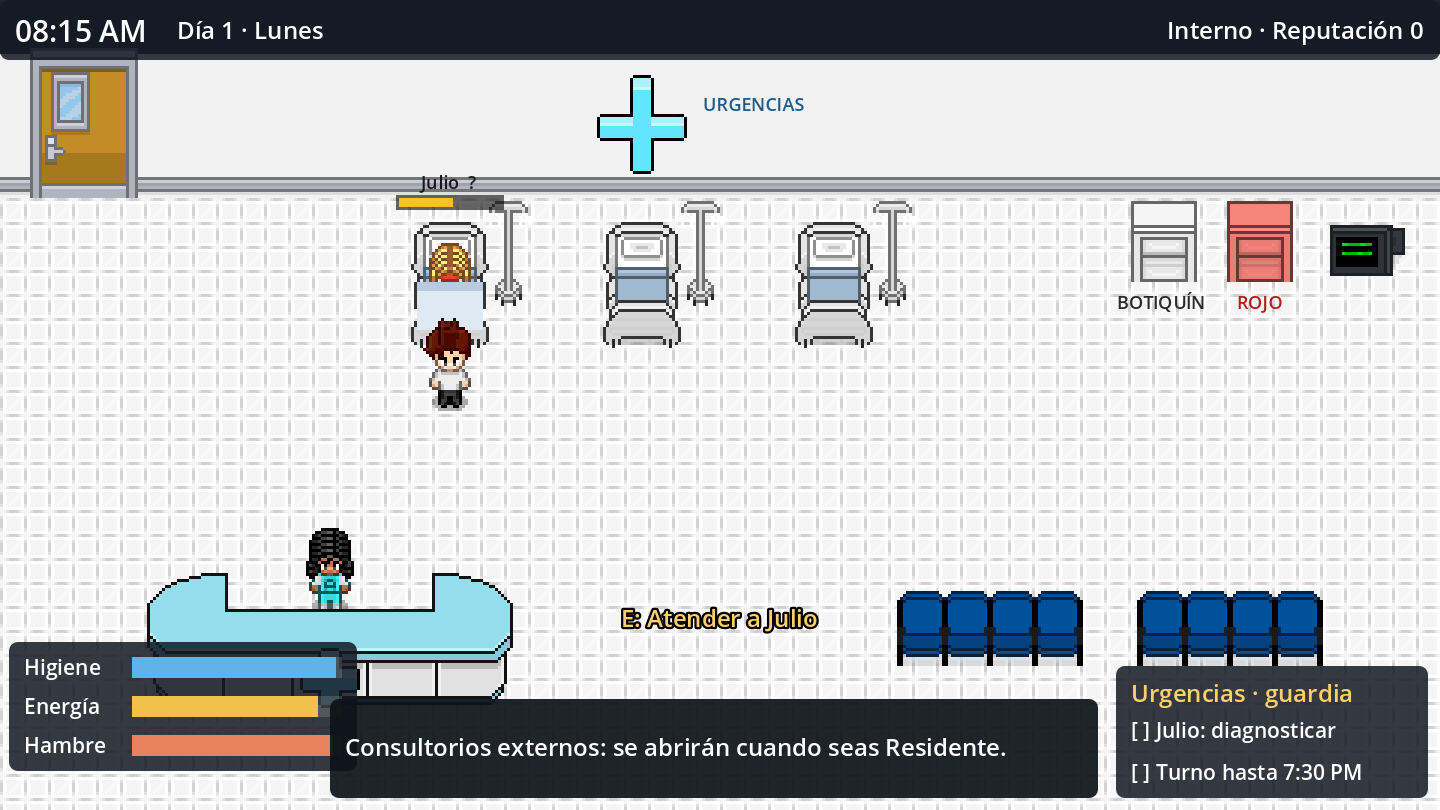
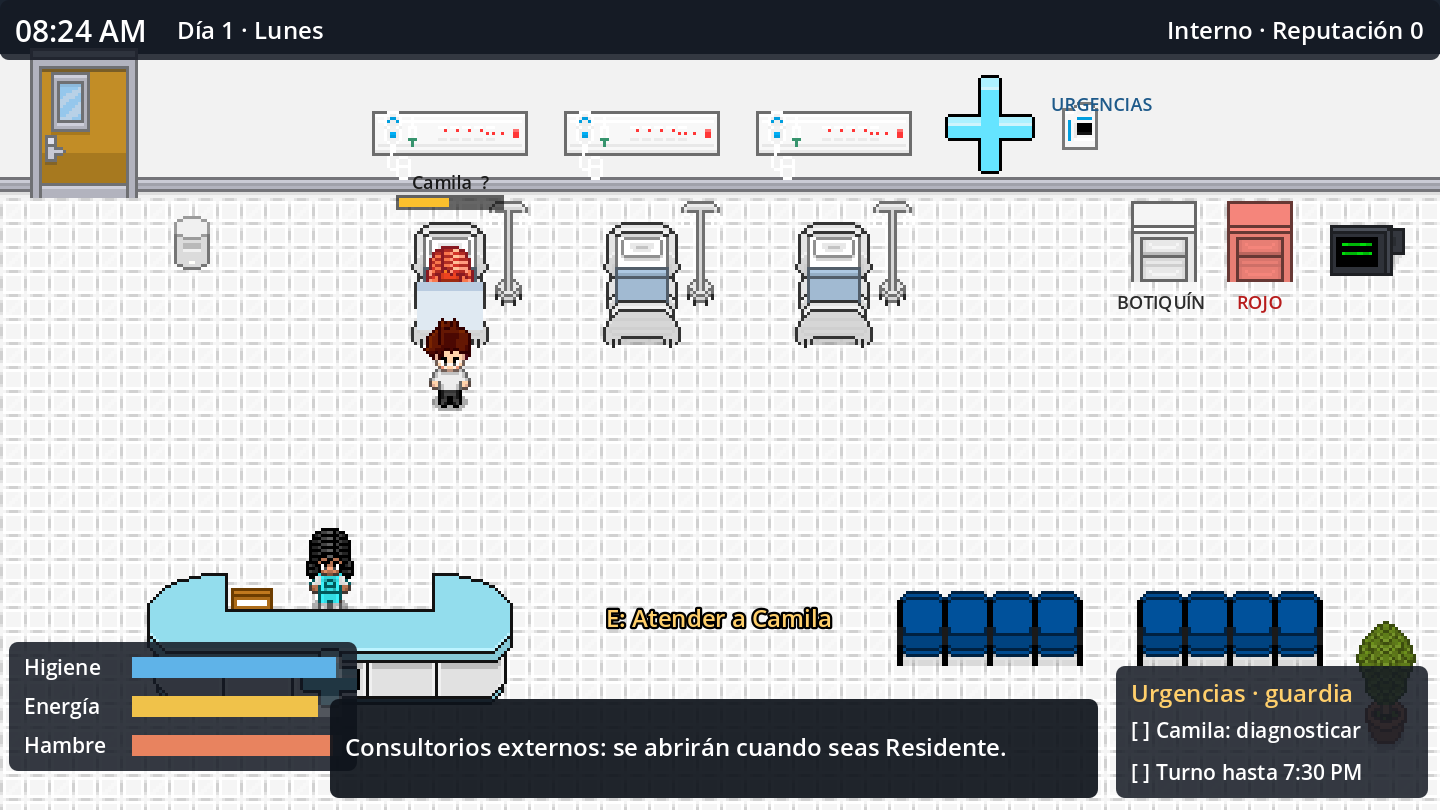
feat(hospital): áreas compactas, pasillo decorado y recepción más completa
- Vestidor, cafetería y dirección más pequeños y enmarcados
- Pasillo al estilo del ejemplo: sillas entre puertas, letreros y piso con paneles
- Recepción con sofás, sillas, plantas, ventanas, papeleras y snacks
- Urgencias con paneles de gases sobre las camillas

diff --git a/README.md b/README.md
@@ -6,6 +6,7 @@ El Dr. **Walter Vega** empieza como interno en el Hospital de Pillbox. Cada día
 
 ![Casa de Walter](docs/captura_casa.png)
 ![Urgencias](docs/captura_hospital.png)
+![Recepción](docs/captura_recepcion.png)
 ![Pasillo del hospital](docs/captura_pasillo.png)
 
 ## Cómo abrirlo
@@ -40,7 +41,7 @@ El Dr. **Walter Vega** empieza como interno en el Hospital de Pillbox. Cada día
 - No ir al hospital antes del mediodía cuenta como falta (−15). Quedarse despierto hasta las 2:00 AM hace que Walter se duerma donde esté.
 
 **Hospital** (varias salas conectadas)
-- **Recepción** con Marta → **Pasillo** con cinco puertas: **1 Urgencias**, **2 Vestidor** (casilleros con batas y ducha del personal), **3 Cafetería** (almuerzo y máquina de snacks), **4 Dirección** (el Dr. Salgado comenta tu reputación) y **5 Consultorios** (cerrado hasta ser Residente).
+- **Recepción** con Marta, sala de espera, sofás, plantas y máquina de snacks → **Pasillo** (sillas contra la pared, letreros y piso azul con paneles) con cinco puertas: **1 Urgencias**, **2 Vestidor** (casilleros con batas y ducha del personal), **3 Cafetería** (almuerzo y máquina de snacks), **4 Dirección** (el Dr. Salgado comenta tu reputación) y **5 Consultorios** (cerrado hasta ser Residente).
 - Los pacientes siguen empeorando aunque Walter esté en otra sala; el altavoz lo llama a urgencias cuando llega alguien.
 - Llegan 3-4 pacientes por día a horas distintas. Desde el día 2 puede llegar un caso grave.
 - Ciclo: **examinar → elegir diagnóstico → tomar el insumo del botiquín → aplicarlo**. Un diagnóstico errado baja la estabilidad; si llega a 0, el paciente se transfiere (−5).
@@ -59,7 +60,7 @@ arte/      assets MetroCity (JIK-A-4) · créditos en arte/CREDITOS.md
 docs/      documentación del taller de narrativa
 ```
 
-Las salas se construyen por código en `construir()` (muebles, zonas interactuables y colisiones), así que para mover un mueble basta con cambiar su posición en `casa.gd` o `hospital.gd`. En el hospital, cada sala vive en su propia zona del mundo (`SALAS` en `hospital.gd`) y las puertas mueven a Walter y a la cámara entre ellas.
+Las salas se construyen por código en `construir()` (muebles, zonas interactuables y colisiones), así que para mover un mueble basta con cambiar su posición en `casa.gd` o `hospital.gd`. En el hospital, cada sala vive en su propia zona del mundo (`SALAS` en `hospital.gd`) y las puertas mueven a Walter y a la cámara entre ellas. El campo `interior` de cada sala define el tamaño real del cuarto: el vestidor, la cafetería y la dirección son pequeños y quedan enmarcados en la pantalla.
 
 **Personajes:** `personaje.gd` arma cada persona con capas de MetroCity (cuerpo con 6 tonos de piel + ropa + pelo), con caminata de 6 cuadros en 4 direcciones. Para crear un NPC basta con `npc(piel, ropa, hoja_pelo, fila_pelo, posición)`.
 
